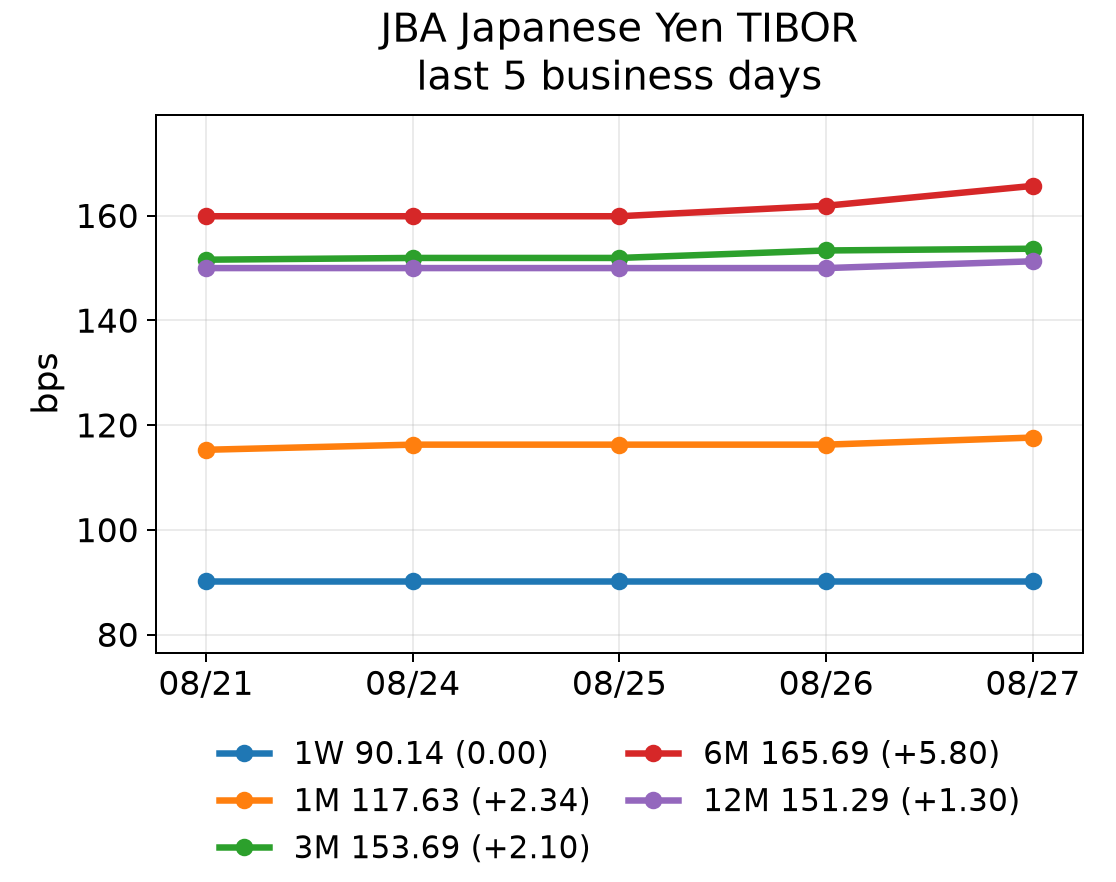
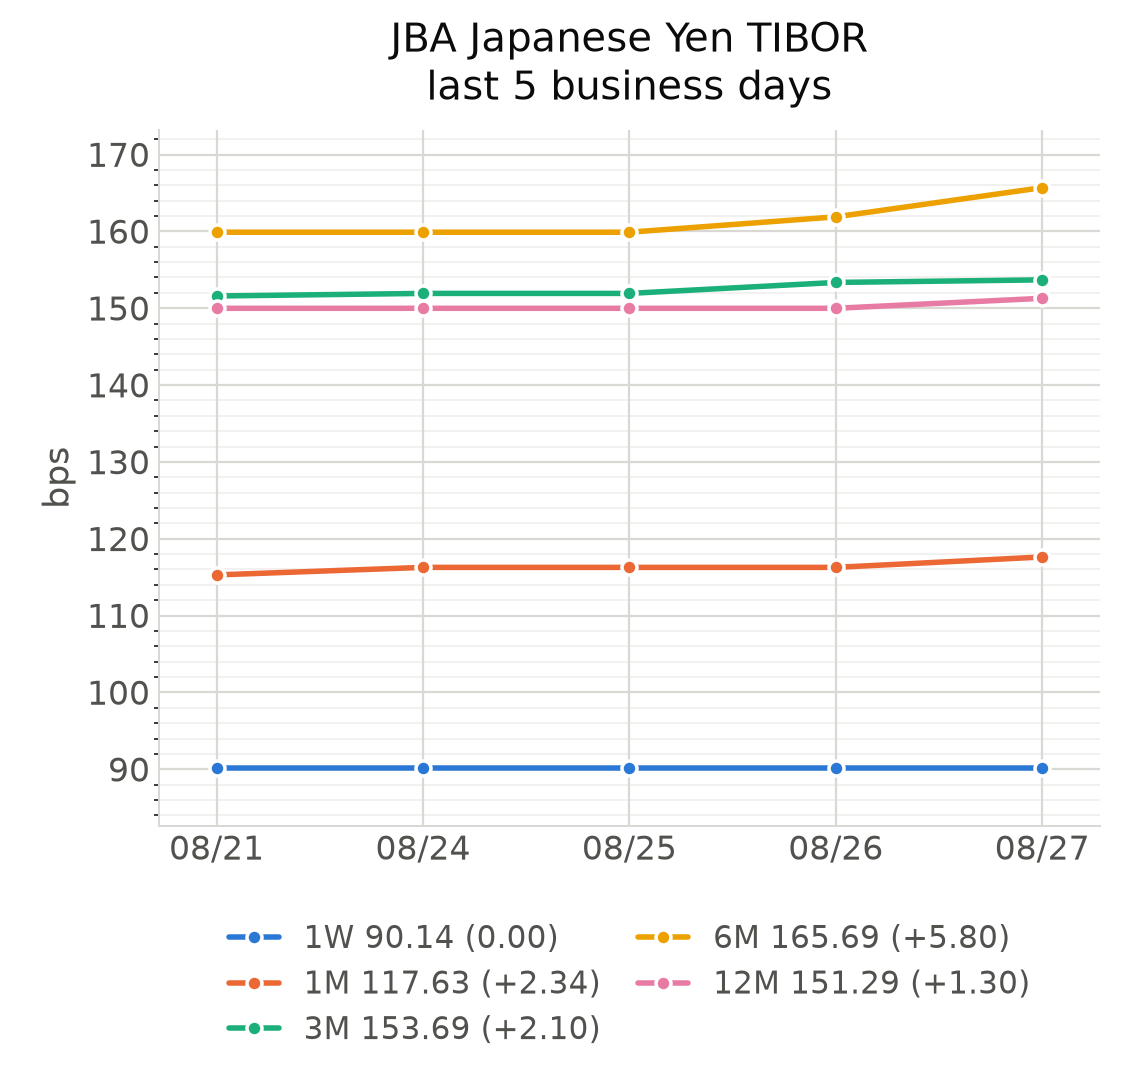
Chart readability: taller frame, minor gridlines every 2bps, validated palette, recessive axes

diff --git a/tibor_bot.py b/tibor_bot.py
@@ -50,6 +50,15 @@ PDF_URL_RE = re.compile(
 
 UA = {"User-Agent": "tibor-teams-bot/1.0 (+https://github.com/)"}
 
+# Chart palette: the validated categorical slots (blue, orange, aqua, yellow,
+# magenta) in FIXED order — assigned shortest tenor first so a tenor keeps its
+# colour between days. Text stays ink-coloured; only the marks carry identity.
+SERIES_COLOURS = ["#2a78d6", "#eb6834", "#1baf7a", "#eda100", "#e87ba4"]
+SURFACE = "#ffffff"
+INK = "#0b0b0b"
+INK_SOFT = "#52514e"
+GRID = "#d9d8d4"
+
 # Committed to the repo and served publicly to Teams; see chart_url().
 CHART_PATH = "charts/tibor_5d.png"
 HISTORY_PATH = "state/history.csv"
@@ -229,6 +238,7 @@ def build_chart(hist, out_path: str, days: int = 5):
     import matplotlib
     matplotlib.use("Agg")
     import matplotlib.pyplot as plt
+    from matplotlib.ticker import MultipleLocator
 
     dates = sorted(hist)[-days:]
     if not dates:
@@ -240,30 +250,52 @@ def build_chart(hist, out_path: str, days: int = 5):
     # Teams fixes the rendered width, so a LESS WIDE figure is what makes the
     # picture bigger: at the same on-screen width a 4:3 frame is much taller
     # than a 16:9 one, and every font grows relative to the figure.
-    fig, ax = plt.subplots(figsize=(6.2, 4.9), dpi=180)
+    fig, ax = plt.subplots(figsize=(6.3, 6.0), dpi=180)
+    fig.patch.set_facecolor(SURFACE)
+    ax.set_facecolor(SURFACE)
     x = list(range(len(dates)))
     labels = []
 
-    for t in tenors:
+    for i, t in enumerate(tenors):
         ys = [float(hist[d][t]) * 100 if hist[d].get(t) else None for d in dates]
-        pts = [(i, y) for i, y in zip(x, ys) if y is not None]
+        pts = [(j, y) for j, y in zip(x, ys) if y is not None]
         if not pts:
             continue
+        # Categorical hues in FIXED order (shortest tenor first), never cycled,
+        # so a tenor keeps its colour from one day's chart to the next.
+        colour = SERIES_COLOURS[i % len(SERIES_COLOURS)]
         ax.plot([p[0] for p in pts], [p[1] for p in pts],
-                marker="o", markersize=6.0, linewidth=2.6, label=_short_tenor(t))
+                color=colour, marker="o", markersize=6.0, linewidth=2.2,
+                # Surface ring: 3M and 12M sit within ~2bps, so their markers
+                # overlap; the ring keeps them readable as separate points.
+                markeredgecolor=SURFACE, markeredgewidth=1.4,
+                solid_capstyle="round", label=_short_tenor(t))
         first, last = pts[0][1], pts[-1][1]
         diff = last - first
         sign = "+" if diff > 0 else ""
         labels.append(f"{_short_tenor(t)} {last:.2f} ({sign}{diff:.2f})")
 
     ax.set_title("JBA Japanese Yen TIBOR\nlast %d business days" % len(dates),
-                 fontsize=16, pad=10)
-    ax.set_ylabel("bps", fontsize=14)
+                 fontsize=16, pad=12, color=INK)
+    ax.set_ylabel("bps", fontsize=14, color=INK_SOFT)
     ax.set_xticks(x)
     ax.set_xticklabels([d.strftime("%m/%d") for d in dates], fontsize=13)
-    ax.tick_params(axis="y", labelsize=13)
-    ax.grid(True, alpha=0.25, linewidth=0.8)
-    ax.margins(x=0.06, y=0.18)
+    ax.tick_params(axis="both", labelsize=13, colors=INK_SOFT, length=0)
+    ax.margins(x=0.07, y=0.10)
+
+    # Fine ticks: labelled majors every 10bps with a minor step between them, so
+    # a 2-3bps move is actually legible against the grid instead of looking flat.
+    step = 10 if (max(ax.get_ylim()) - min(ax.get_ylim())) > 45 else 5
+    ax.yaxis.set_major_locator(MultipleLocator(step))
+    ax.yaxis.set_minor_locator(MultipleLocator(step / 5.0))
+    # Solid hairlines, one shade off the surface — never dashed, never heavy.
+    ax.grid(which="major", color=GRID, linewidth=0.9, alpha=1.0)
+    ax.grid(which="minor", color=GRID, linewidth=0.6, alpha=0.45)
+    ax.set_axisbelow(True)
+    for side in ("top", "right"):
+        ax.spines[side].set_visible(False)
+    for side in ("left", "bottom"):
+        ax.spines[side].set_color(GRID)
 
     # Legend below the axes: at this point count an in-plot legend collides
     # with the data. Labels carry the latest value and the change over the
@@ -271,15 +303,17 @@ def build_chart(hist, out_path: str, days: int = 5):
     # Wrapped to 3 columns — a single 5-wide row is wider than the plot, and
     # with bbox_inches="tight" that stretches the canvas and squashes the axes.
     handles, _ = ax.get_legend_handles_labels()
-    ax.legend(handles, labels, loc="upper center", bbox_to_anchor=(0.5, -0.11),
-              ncol=2, fontsize=12.5, frameon=False,
-              handlelength=1.6, columnspacing=1.2, labelspacing=0.5)
+    leg = ax.legend(handles, labels, loc="upper center", bbox_to_anchor=(0.5, -0.10),
+                    ncol=2, fontsize=12.5, frameon=False,
+                    handlelength=1.6, columnspacing=1.2, labelspacing=0.45)
+    for txt in leg.get_texts():          # identity is the swatch, not the text
+        txt.set_color(INK_SOFT)
 
     # Reserve the legend's space explicitly instead of tight_layout/bbox_inches,
     # so the axes keep the full width of the figure.
-    fig.subplots_adjust(left=0.14, right=0.97, top=0.87, bottom=0.26)
+    fig.subplots_adjust(left=0.14, right=0.97, top=0.88, bottom=0.235)
     os.makedirs(os.path.dirname(out_path) or ".", exist_ok=True)
-    fig.savefig(out_path, facecolor="white")
+    fig.savefig(out_path, facecolor=SURFACE)
     plt.close(fig)
 
     with open(out_path, "rb") as f:
